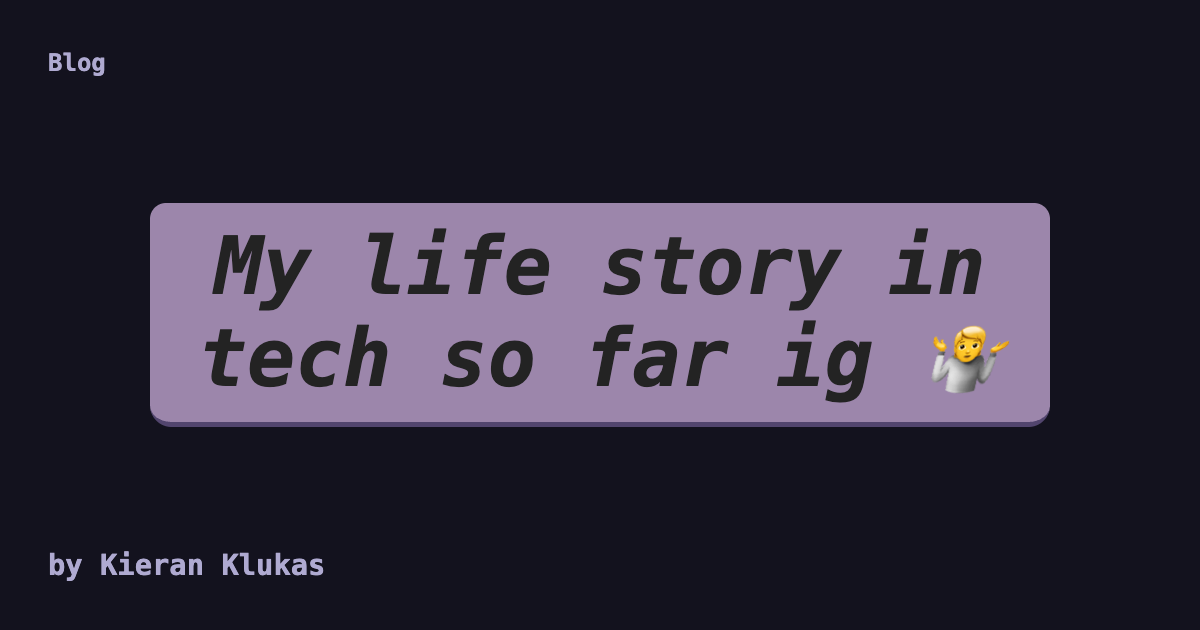
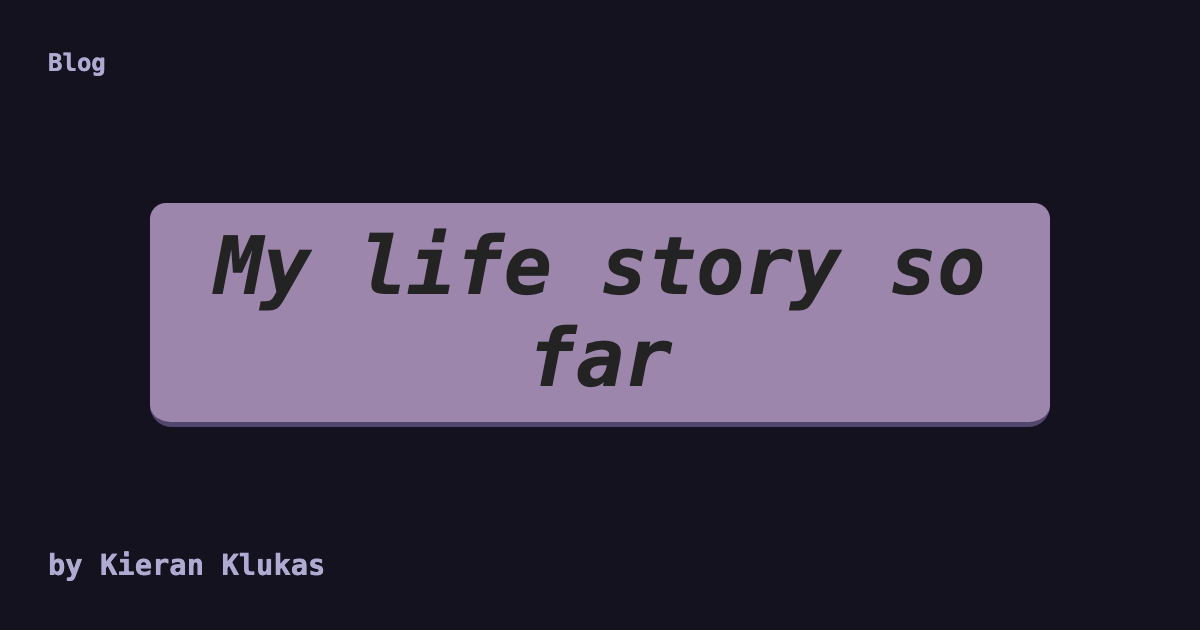
chore: update life story post

diff --git a/content/blog/2025-01-31_my-life-story-with-tech.md b/content/blog/2025-01-31_my-life-story-with-tech.md
@@ -1,5 +1,5 @@
 +++
-title = "My life story in tech so far ig 🤷"
+title = "My life story so far"
 date = 2025-01-31
 slug = "my-life-story-with-tech"
 description = "I was applying for a college cybersecurity camp and wrote this absolute monster that amounts to an overview of my life in tech so far (till 16)"
